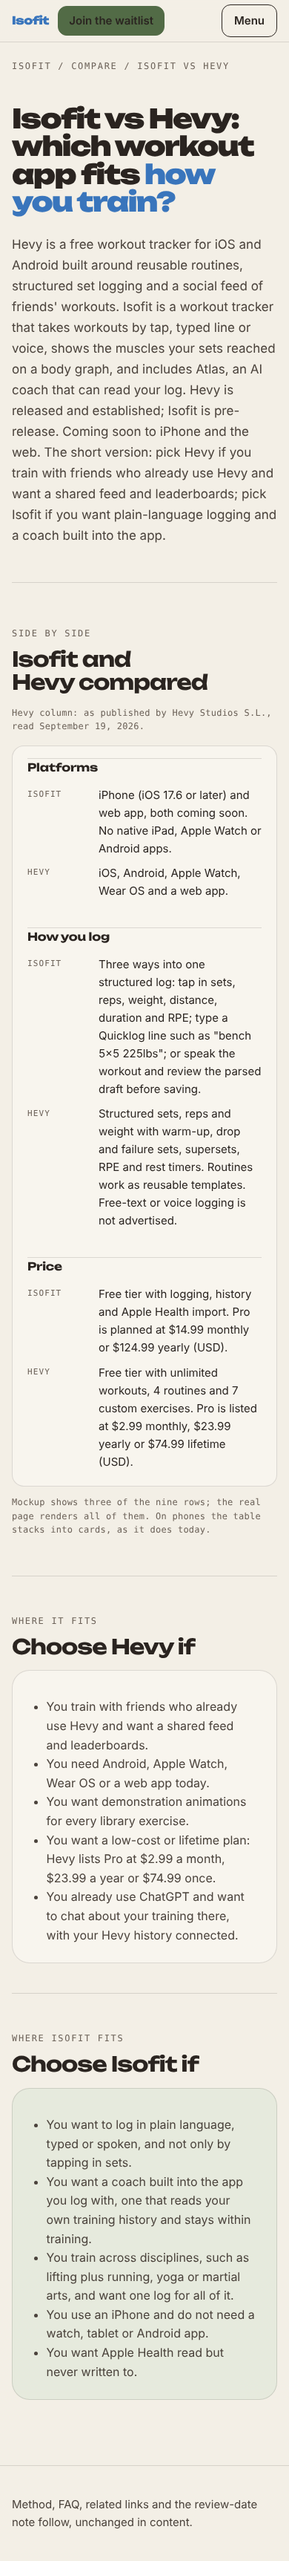
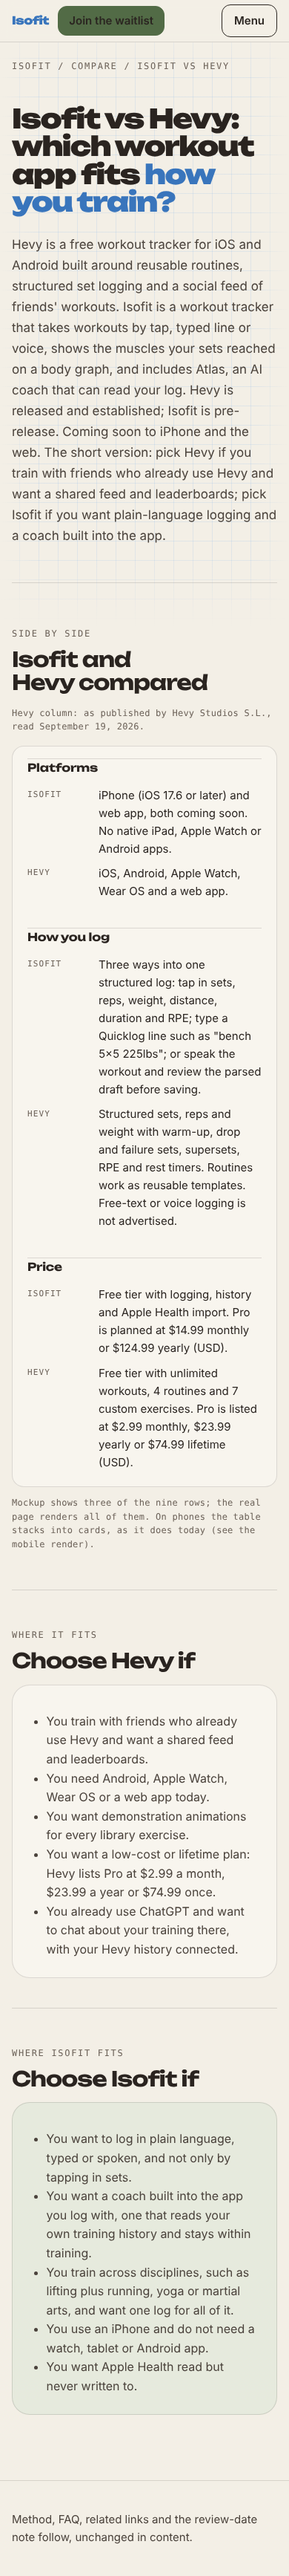
Gate 1 feedback: restore grid, neglected-muscles states, iOS status line and Try web app
Claude-Session: https://claude.ai/code/session_01HR94YYt2B92YdJjMohNviJ

diff --git a/docs/redesign/mockups/feature-detail.html b/docs/redesign/mockups/feature-detail.html
@@ -1,4 +1,4 @@
-<!doctype html><html lang="en"><head><meta charset="utf-8"><meta name="viewport" content="width=device-width,initial-scale=1"><title>Isofit redesign mockup — Feature detail (Body graph)</title><link rel="stylesheet" href="system.css"></head><body><a class="skip" href="#main">Skip to content</a><header class="top"><div class="wrap"><a class="logo" href="home.html">Isofit</a><nav aria-label="Primary"><a href="feature-detail.html">Features</a><a href="#">Pricing</a><a href="compare-detail.html">Compare</a><a href="#">FAQ</a><a href="#">About</a></nav><a class="btn hide-sm" href="#">Web app →</a><a class="btn btn-primary" href="#">Join the waitlist</a><details class="menu"><summary>Menu</summary><div class="panel"><a href="feature-detail.html">Features</a><a href="#">Pricing</a><a href="compare-detail.html">Compare</a><a href="#">FAQ</a><a href="#">About</a><a href="#">Web app →</a></div></details></div></header>
+<!doctype html><html lang="en"><head><meta charset="utf-8"><meta name="viewport" content="width=device-width,initial-scale=1"><title>Isofit redesign mockup — Feature detail (Body graph)</title><link rel="stylesheet" href="system.css"></head><body><a class="skip" href="#main">Skip to content</a><header class="top"><div class="wrap"><a class="logo" href="home.html">Isofit</a><nav aria-label="Primary"><a href="feature-detail.html">Features</a><a href="#">Pricing</a><a href="compare-detail.html">Compare</a><a href="#">FAQ</a><a href="#">About</a></nav><a class="btn hide-sm" href="#">Try web app →</a><a class="btn btn-primary" href="#">Join the waitlist</a><details class="menu"><summary>Menu</summary><div class="panel"><a href="feature-detail.html">Features</a><a href="#">Pricing</a><a href="compare-detail.html">Compare</a><a href="#">FAQ</a><a href="#">About</a><a href="#">Try web app →</a></div></details></div></header>
 <main id="main"><div class="wrap">
 <nav class="crumbs label" aria-label="Breadcrumb">Isofit / Features / Body graph</nav>
 <div class="page-head" style="display:grid;grid-template-columns:minmax(0,1.4fr) minmax(0,.8fr);gap:3rem;align-items:center">
@@ -12,7 +12,12 @@
 <section id="what-you-see"><p class="label">On screen</p><h2>What the body graph shows</h2>
 <dl class="specs"><div><dt class="label">Figure</dt><dd>Front and back views with each muscle region shaded from rest to most worked.</dd></div><div><dt class="label">Time windows</dt><dd>7 days, 30 days, 90 days, or all time.</dd></div><div><dt class="label">Sets by muscle</dt><dd>A ranked list of muscles with the working sets credited to each.</dd></div><div><dt class="label">Stat cards</dt><dd>Total sets, most worked muscle and least worked muscle for the window.</dd></div><div><dt class="label">Muscle detail</dt><dd>Tap a muscle on the figure to open its detail panel.</dd></div><div><dt class="label">History</dt><dd>The second mode of the Progress tab: every past session, open on every tier.</dd></div></dl>
 <figure style="margin:2rem 0 0"><div class="device"><img src="../../../public/screenshots/sets-by-muscle.png" alt="The lower half of Isofit's body graph. A Sets by muscle list reads Side Delts 11, Triceps 10, Glutes 9, Biceps 8, Front Delts 8. Beside it a 7D, 30D, 90D and ALL filter sits above cards for Total sets 45, Most worked Side Delts and Least worked Upper Back."></div><figcaption class="caption" style="margin-top:.75rem">Sets by muscle, the four time windows, and the most and least worked muscle.</figcaption></figure></section>
-<section id="gaps"><p class="label">Reading it</p><h2>Two kinds of gap, and a question for Atlas</h2><div class="prose"><p>A muscle you have not trained at all is a different problem from one you have trained less than usual, so Isofit labels them separately. Tap a muscle and its detail panel says "Not trained in this window" if it has no credited sets, or "Below your usual volume" if it has fallen behind your own typical training frequency. The comparison is with your own history, not with someone else's template.</p><p>The same panel hands the number to Atlas. It drafts a question for you along the lines of "My chest got 12 weighted sets over the last 30 days. Is that enough, and what would you change?", so the coach starts from the figure you are looking at.</p></div></section>
+<section id="gaps"><p class="label">Reading it</p><h2>Two kinds of gap, and a question for Atlas</h2>
+<div class="gapsplit"><div><div class="prose" style="margin-top:-1rem"><p>A muscle you have not trained at all is a different problem from one you have trained less than usual, so Isofit labels them separately. Tap a muscle and its detail panel says "Not trained in this window" if it has no credited sets, or "Below your usual volume" if it has fallen behind your own typical training frequency. The comparison is with your own history, not with someone else's template.</p></div>
+<div class="gapstates" aria-hidden="true"><div class="gapstate"><span class="swatch" style="background:var(--heat-0)"></span><q>Not trained in this window</q></div><div class="gapstate"><span class="swatch" style="background:linear-gradient(90deg,var(--heat-0),var(--heat-2))"></span><q>Below your usual volume</q></div></div>
+<p class="caption" style="margin-top:.75rem">Mockup: the two live panel labels shown as the two states. Decorative duplicate of the sentence above, hidden from assistive tech; the real build can render it from the same strings without repeating copy.</p></div>
+<figure style="margin:0"><div class="device"><img src="../../../public/screenshots/muscle-detail.png" alt="The muscle detail panel in Isofit's body graph: Hamstrings over the last 7 days, with 2 weighted sets, 2.0 sets a week and 5.0 average effort, above an Ask Atlas about hamstrings button."></div><figcaption class="caption" style="margin-top:.75rem">Tap a muscle and its panel shows the sets it got in the window, then hands the question to Atlas.</figcaption></figure></div>
+<div class="prose"><p>The same panel hands the number to Atlas. It drafts a question for you along the lines of "My chest got 12 weighted sets over the last 30 days. Is that enough, and what would you change?", so the coach starts from the figure you are looking at.</p><p>When a window holds very little training, the whole figure is drawn dimmer. One logged set will not paint a muscle as fully worked; the scale opens to its full range at roughly two solid sessions' worth of sets.</p></div></section>
 <section id="how-it-works"><p class="label">Method</p><h2>How the body graph is calculated</h2><div class="prose"><p>The unit is the working set. Each working set you log gives full credit to the exercise's primary muscles and partial credit to its secondary muscles. Warm-up sets are left out. Bodyweight sets count. The graph measures sets, not tonnage, so a heavy single and a light set of twenty each count once.</p></div></section>
 <section id="muscles"><p class="label">Muscles</p><h2>The muscles Isofit tracks</h2><div class="prose"><p>Exercises are mapped to 25 muscle groups: chest, upper chest, lower chest, front delts, side delts, rear delts, biceps, brachialis, triceps, long head of the triceps, forearms, lats, upper back, traps, lower back, core, obliques, glutes, hip flexors, adductors, quadriceps, hamstrings, calves, soleus and ankles.</p><p>Closely related groups are merged for display. Brachialis counts toward biceps, the long head toward triceps, soleus toward calves, and upper and lower chest toward chest. Hip flexors and adductors are tracked in the list but are not drawn on the figure.</p></div></section>
 <section id="free-vs-pro"><p class="label">Tiers</p><h2>Body graph on Free and Pro</h2><table class="table-stack"><thead><tr><th scope="col"></th><th scope="col">Free</th><th scope="col">Pro</th></tr></thead><tbody><tr><th scope="row">Body figure</th><td data-label="Free">Visible under a locked veil</td><td data-label="Pro" class="isofit">Full color</td></tr><tr><th scope="row">Tap a muscle for detail</th><td data-label="Free">No</td><td data-label="Pro" class="isofit">Yes</td></tr><tr><th scope="row">Sets by muscle, total, most and least worked</th><td data-label="Free">No</td><td data-label="Pro" class="isofit">Yes</td></tr><tr><th scope="row">Session history</th><td data-label="Free">Yes</td><td data-label="Pro" class="isofit">Yes</td></tr></tbody></table></section>

diff --git a/docs/redesign/mockups/home.html b/docs/redesign/mockups/home.html
@@ -1,11 +1,11 @@
-<!doctype html><html lang="en"><head><meta charset="utf-8"><meta name="viewport" content="width=device-width,initial-scale=1"><title>Isofit redesign mockup — Home</title><link rel="stylesheet" href="system.css"></head><body><a class="skip" href="#main">Skip to content</a><header class="top"><div class="wrap"><a class="logo" href="home.html">Isofit</a><nav aria-label="Primary"><a href="feature-detail.html">Features</a><a href="#">Pricing</a><a href="compare-detail.html">Compare</a><a href="#">FAQ</a><a href="#">About</a></nav><a class="btn hide-sm" href="#">Web app →</a><a class="btn btn-primary" href="#">Join the waitlist</a><details class="menu"><summary>Menu</summary><div class="panel"><a href="feature-detail.html">Features</a><a href="#">Pricing</a><a href="compare-detail.html">Compare</a><a href="#">FAQ</a><a href="#">About</a><a href="#">Web app →</a></div></details></div></header>
+<!doctype html><html lang="en"><head><meta charset="utf-8"><meta name="viewport" content="width=device-width,initial-scale=1"><title>Isofit redesign mockup — Home</title><link rel="stylesheet" href="system.css"></head><body><a class="skip" href="#main">Skip to content</a><header class="top"><div class="wrap"><a class="logo" href="home.html">Isofit</a><nav aria-label="Primary"><a href="feature-detail.html">Features</a><a href="#">Pricing</a><a href="compare-detail.html">Compare</a><a href="#">FAQ</a><a href="#">About</a></nav><a class="btn hide-sm" href="#">Try web app →</a><a class="btn btn-primary" href="#">Join the waitlist</a><details class="menu"><summary>Menu</summary><div class="panel"><a href="feature-detail.html">Features</a><a href="#">Pricing</a><a href="compare-detail.html">Compare</a><a href="#">FAQ</a><a href="#">About</a><a href="#">Try web app →</a></div></details></div></header>
 <main id="main">
 <section class="hero" aria-labelledby="h"><div class="wrap grid">
  <div class="hero-settle"><p class="label">● Workout tracker &amp; AI fitness coach</p>
   <h1 id="h" class="hero-h">Put your workouts <span class="accent">to work.</span></h1>
   <p class="lede">Isofit is a workout tracker that helps you make sense of your training. Log by tap, text or voice, and see which muscles you’re working—and which you might be overlooking. Meet Atlas, Isofit’s built-in personal AI fitness coach. With your permission, Atlas reads your workout history to help you review sessions and plan what’s next.</p>
-  <div class="actions"><a class="btn" href="#">Web app →</a></div>
-  <p class="status">Coming soon to iPhone and the web.</p>
+  <div class="actions"><a class="btn" href="#">Try web app →</a></div>
+  <p class="status">Coming soon to iOS.</p>
   <form class="wl" id="waitlist-form" aria-label="Join the Isofit waitlist" onsubmit="return false"><label for="wl-name">First name (optional)</label><input id="wl-name" autocomplete="given-name"><label for="wl-email">Email address</label><input id="wl-email" type="email" autocomplete="email"><button class="btn btn-primary" type="submit">Join the waitlist →</button><p>Be first in. No spam, just a heads-up when we launch.</p></form>
 
  </div>

diff --git a/docs/redesign/mockups/compare-detail.html b/docs/redesign/mockups/compare-detail.html
@@ -1,4 +1,4 @@
-<!doctype html><html lang="en"><head><meta charset="utf-8"><meta name="viewport" content="width=device-width,initial-scale=1"><title>Isofit redesign mockup — Comparison (long SEO page)</title><link rel="stylesheet" href="system.css"></head><body><a class="skip" href="#main">Skip to content</a><header class="top"><div class="wrap"><a class="logo" href="home.html">Isofit</a><nav aria-label="Primary"><a href="feature-detail.html">Features</a><a href="#">Pricing</a><a href="compare-detail.html">Compare</a><a href="#">FAQ</a><a href="#">About</a></nav><a class="btn hide-sm" href="#">Web app →</a><a class="btn btn-primary" href="#">Join the waitlist</a><details class="menu"><summary>Menu</summary><div class="panel"><a href="feature-detail.html">Features</a><a href="#">Pricing</a><a href="compare-detail.html">Compare</a><a href="#">FAQ</a><a href="#">About</a><a href="#">Web app →</a></div></details></div></header>
+<!doctype html><html lang="en"><head><meta charset="utf-8"><meta name="viewport" content="width=device-width,initial-scale=1"><title>Isofit redesign mockup — Comparison (long SEO page)</title><link rel="stylesheet" href="system.css"></head><body><a class="skip" href="#main">Skip to content</a><header class="top"><div class="wrap"><a class="logo" href="home.html">Isofit</a><nav aria-label="Primary"><a href="feature-detail.html">Features</a><a href="#">Pricing</a><a href="compare-detail.html">Compare</a><a href="#">FAQ</a><a href="#">About</a></nav><a class="btn hide-sm" href="#">Try web app →</a><a class="btn btn-primary" href="#">Join the waitlist</a><details class="menu"><summary>Menu</summary><div class="panel"><a href="feature-detail.html">Features</a><a href="#">Pricing</a><a href="compare-detail.html">Compare</a><a href="#">FAQ</a><a href="#">About</a><a href="#">Try web app →</a></div></details></div></header>
 <main id="main"><div class="wrap">
 <nav class="crumbs label" aria-label="Breadcrumb">Isofit / Compare / Isofit vs Hevy</nav>
 <div class="page-head"><h1 class="hero-settle" style="max-width:22ch;font-size:clamp(2.25rem,5.6vw,4.5rem)">Isofit vs Hevy: which workout app fits <span class="accent">how you train?</span></h1><p class="lede">Hevy is a free workout tracker for iOS and Android built around reusable routines, structured set logging and a social feed of friends' workouts. Isofit is a workout tracker that takes workouts by tap, typed line or voice, shows the muscles your sets reached on a body graph, and includes Atlas, an AI coach that can read your log. Hevy is released and established; Isofit is pre-release. Coming soon to iPhone and the web. The short version: pick Hevy if you train with friends who already use Hevy and want a shared feed and leaderboards; pick Isofit if you want plain-language logging and a coach built into the app.</p></div>

diff --git a/docs/redesign/mockups/system.css b/docs/redesign/mockups/system.css
@@ -121,3 +121,20 @@ td.isofit{background:var(--forest-soft)}
  .table-stack td::before{content:attr(data-label);padding-top:.2rem;font:.6875rem/1rem var(--mono);letter-spacing:.1em;text-transform:uppercase;color:var(--ink-3)}
  .table-stack td.isofit{background:none}
 }
+
+/* Grid motif (the app's 26px sky grid), decorative: fixed behind the page, fading toward every edge like PageShell's edge fade.
+   Chapters with their own solid surface (terra-soft, forest-soft, band) cover it; the ink chapter carries its own grid. */
+body::before{content:"";position:fixed;inset:0;z-index:-1;pointer-events:none;
+ background-image:linear-gradient(rgba(106,165,238,.14) 1px,transparent 1px),linear-gradient(90deg,rgba(106,165,238,.14) 1px,transparent 1px);background-size:26px 26px;
+ -webkit-mask-image:linear-gradient(to bottom,transparent,#000 12%,#000 88%,transparent),linear-gradient(to right,transparent,#000 12%,#000 88%,transparent);-webkit-mask-composite:source-in;
+ mask-image:linear-gradient(to bottom,transparent,#000 12%,#000 88%,transparent),linear-gradient(to right,transparent,#000 12%,#000 88%,transparent);mask-composite:intersect}
+.chapter.log,.facts,.hero{background:transparent}
+.chapter.see{background-color:var(--ink);background-image:linear-gradient(rgba(106,165,238,.14) 1px,transparent 1px),linear-gradient(90deg,rgba(106,165,238,.14) 1px,transparent 1px);background-size:26px 26px}
+header.top{background:color-mix(in srgb,var(--paper) 88%,transparent)}
+/* neglected-muscles states (existing copy only) */
+.gapstates{display:grid;grid-template-columns:1fr 1fr;gap:1.25rem;margin:1.5rem 0 0}
+.gapstate{border-radius:1.25rem;border:1px solid var(--rule);background:var(--paper-raised);padding:1.25rem 1.5rem}
+.gapstate .swatch{display:block;height:.5rem;border-radius:99px;margin-bottom:.9rem}
+.gapstate q{font:700 1.125rem/1.3 var(--display);letter-spacing:-.02em;quotes:none}
+.gapsplit{display:grid;grid-template-columns:minmax(0,1.3fr) minmax(0,.8fr);gap:clamp(1.5rem,4vw,3rem);align-items:start;margin-top:1.5rem}
+@media (max-width:56rem){.gapstates,.gapsplit{grid-template-columns:minmax(0,1fr)}}

diff --git a/docs/redesign/README.md b/docs/redesign/README.md
@@ -45,7 +45,7 @@ Sentence case as in the source copy. No serif.
 2. *Heat ribbon.* The six real heat-map colors form the brand's ownable motif: hero accent bar, fact-strip top rules, legend. Colors are never recolored.
 3. *Hero.* Much larger Unbounded headline with the real body-graph screen beside it. The inline waitlist form (same fields, labels and "Be first in" line), Web app link, launch-status line and the Rest / Most worked legend all stay in the first screen.
 4. *Long pages.* Large page title, sticky in-page contents on desktop, tables keep today's stack-to-cards behavior on phones, Isofit column tinted `forest-soft`.
-5. *Grid motif* stays fixed, faint and decorative behind pages as today.
+5. *Grid motif* is back as in the live site: the app's 26 px sky grid, fixed behind the page and fading toward every edge. It shows on paper surfaces (hero, fact strip, first chapter, pricing) and as a slightly stronger grid inside the ink chapter; the terra-soft, forest-soft and closing bands are solid so the grid never competes with screens or text.
 
 **Motion (Phase 4, not applied yet).** Only `hero-settle` (shown in the mockups: 600 ms, 8 px, page load) is prototyped; skipped under `prefers-reduced-motion`; content is visible without it.
 
@@ -53,7 +53,13 @@ Sentence case as in the source copy. No serif.
 
 **Mockup limits to be aware of.** Static HTML, not the Next components. The "sets by muscle" figure uses the full screenshot; the real build keeps the existing `ScreenCrop`. Footer is abbreviated; feature and comparison pages show only some sections, but those shown use the live anchor ids (`what-you-see`, `gaps`, `how-it-works`, `muscles`, `free-vs-pro`; `choose-them`, `choose-isofit`) and the live heading levels. The mockup does not yet show the Quicklog example in the hero (suggested by the schema's America.gov row; open for Gate 1).
 
-## Gate 1 questions
+## Gate 1 decisions (from the user)
+1. Approved, with the grid background restored (done in the mockups, see item 5 above).
+2. Chapter surfaces approved as is.
+3. Body-graph page: neglected-muscles logic added. Using only existing copy, the "gaps" section now shows the two live panel labels ("Not trained in this window", "Below your usual volume") as two visual states beside the real muscle-detail screenshot; the FAQ "How do I find out which muscles I am neglecting?" stays unchanged. No new copy was written; say so if you want an extra sentence.
+4. Homepage hero: status line is now "Coming soon to iOS." and the button reads "Try web app". These are deliberate copy changes. `SITE.launchStatus` is one constant that also feeds the footer, mobile menu, meta descriptions, JSON-LD, `llms.txt`, FAQ and comparison pages, plus the homepage "Platform" and "Status" fact-strip rows, which still say "iPhone ... and web app, both coming soon". In Phase 2 only the hero line and the Web app link label (all headers) change; the rest is left until you decide whether to update it site-wide, since doing so would change metadata, structured data and the mirrors.
+
+## Original Gate 1 questions
 1. Is the hero scale and the numbered, color-blocked chapters the right level of expressiveness?
 2. Any chapter surface you dislike (ink for "See it", terra-soft for "Ask Atlas", forest-soft for "Bonfire")?
 3. Approve applying this system in Phase 2 to the shared shell, the homepage and the body-graph page?
